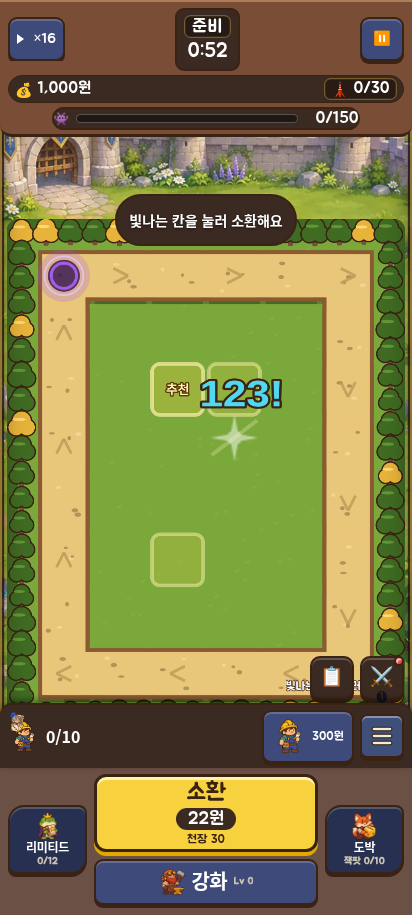
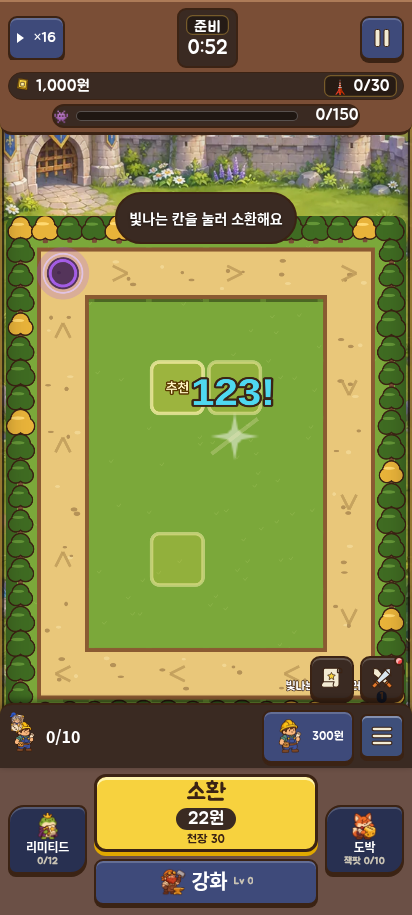
PR-G 준비 완료 터치·종족 보조 줄·가로 초점 스크롤 보완
Claude-Session: https://claude.ai/code/session_01TtVcSoY665DmsK6h3dcafN

diff --git a/src/ui/battle/battleV2.css b/src/ui/battle/battleV2.css
@@ -199,3 +199,9 @@
 .battle-v2 .hud-wave .hud-stage.is-boss { padding:0; border:0; background:transparent; box-shadow:none; }
 @media(max-height:650px) { .battle-v2 .hud-wave { height:44px; } }
 @container(max-width:300px) { .battle-v2 .hud-wave .hud-stage { font-size:12px; } }
+/* Keep the secondary faction row smaller than primary summon options, with legible text. */
+.battle-v2 .sm-row-secondary .up-name { font-size:14px; }
+/* The 2px border consumes part of the legacy pseudo-element hit extension. Keep 10px outside. */
+.battle-v2 .hud-ready::after { top:-12px; bottom:-12px; }
+/* A focused choice in a short letterboxed stage must not scroll the oversized blurred backdrop. */
+#app:has(.battle-v2) { overflow:clip; }

diff --git a/docs/design/v2/REVIEW.md b/docs/design/v2/REVIEW.md
@@ -1,0 +1,27 @@
+# V2 디자인 검토·통합 안내
+
+모바일 UI 디자인 단계 B~G와 칸 투명화의 검토 안내다. 공통 main 기준은 `3abfda6e943a5c0bccbb2a0710c80ceac00f57e9`다. 아래 PR은 검토용이며 main 병합·푸시·서명 릴리스를 실행하지 않았다.
+
+| 단계 | 브랜치 / 검토 대상 | 범위 |
+| --- | --- | --- |
+| B | design/v2-pr-b / main, #73 | 공통 토큰·컴포넌트·오리지널 SVG·로컬 글꼴·개발 갤러리 |
+| C | design/v2-pr-c / B, #74 | 첫 로딩·전환 로딩 |
+| D | design/v2-pr-d / C, #77 | 로비 HUD·탭·주요 행동 |
+| E | design/v2-pr-e / D, #78 | 영웅 7등급 카드·미보유·진행 표시 |
+| F | design/v2-pr-f / E | 상점·도감·캠페인·상세·퀘스트·모집·보상·설정 팝업 |
+| 칸 | design/field-context / main, #79 | 평소 투명, 선택·이동·판매·승급·강화 때 관련 칸 표시 |
+| G | design/v2-pr-g / design/v2-battle-base | 자연 필드·전투 HUD·메뉴/통계·종이 시트·치명타·WAVE 띠 |
+
+`design/v2-battle-base`는 E 이후 F와 필드 #79를 합친 **검토 전용 기준 브랜치**다. G PR의 변경 목록에는 G만 나오게 하고, 누적 실행 화면에서는 B~G와 필드를 함께 볼 수 있다. 이 기준 브랜치를 main 배포 브랜치로 취급하지 않는다.
+
+검토는 B→C→D→E→F 순서와 독립 필드 #79, 마지막 G 순서가 적합하다. 실제 통합은 Claude가 전용 통합 브랜치에서 최신 main과 충돌·소유권을 확인하고 한 번에 검증한 뒤 별도 통합 PR로 정리한다. 개별 디자인 PR을 차례로 main에 병합하면 각 병합마다 릴리스가 발생할 수 있으므로 이 전달은 main 병합 승인이 아니다.
+
+## 검사와 소유권
+
+- 단계별 변경 파일·자산·4개 폭 캡처는 각 `docs/design/v2/*/PR-*.md`, `validation.json`, `screens/`에 있다. F/G의 `regression.json`은 F+G+필드를 함께 적용한 동일한 전체 회귀 결과이며 두 번 실행했다고 세지 않는다.
+- G의 `bundles.json`은 배포 빌드와 단일 HTML의 HTTP 실행을 검사한다. 관리형 Chromium의 `file://` 정책 차단을 HTTP 성공으로 덮지 않는다. 실제 Android 장치 검사는 별도다.
+- sim/meta/save/data/경제/ID/명령/저장 형식/SIM_VERSION/오디오/네트워크/Android/CI/캐릭터 그림은 이 F/G에서 수정하지 않는다. `Game.ts`는 표시 생명주기·읽기 전용 시간·안전영역 측정·메뉴 뒤로 가기만 바뀌므로 Claude가 함께 확인한다.
+- 기존 E2E 선택자를 유지한다. HUD 높이 문제는 UI를 고쳤고, 일괄 승급 검사는 기존 `>=3` 기대값을 유지하며 대기만 보완했다. 선택창에는 실제 웨이브 시간을 표시하며 만료·자동 선택·경제 규칙을 추가하지 않았다.
+- 서버 없이 작동하는 로컬 글꼴·SVG·기존 WebP와 원본 절차 숲 그림을 사용한다. 참고 게임의 캐릭터·로고·문구를 복제하지 않는다.
+
+새 유료 재화/불꽃 연결, 친구·채팅 서비스, 임의의 선택 만료 규칙, 경제 조정은 이번 UI 범위에 추가하지 않았다.
